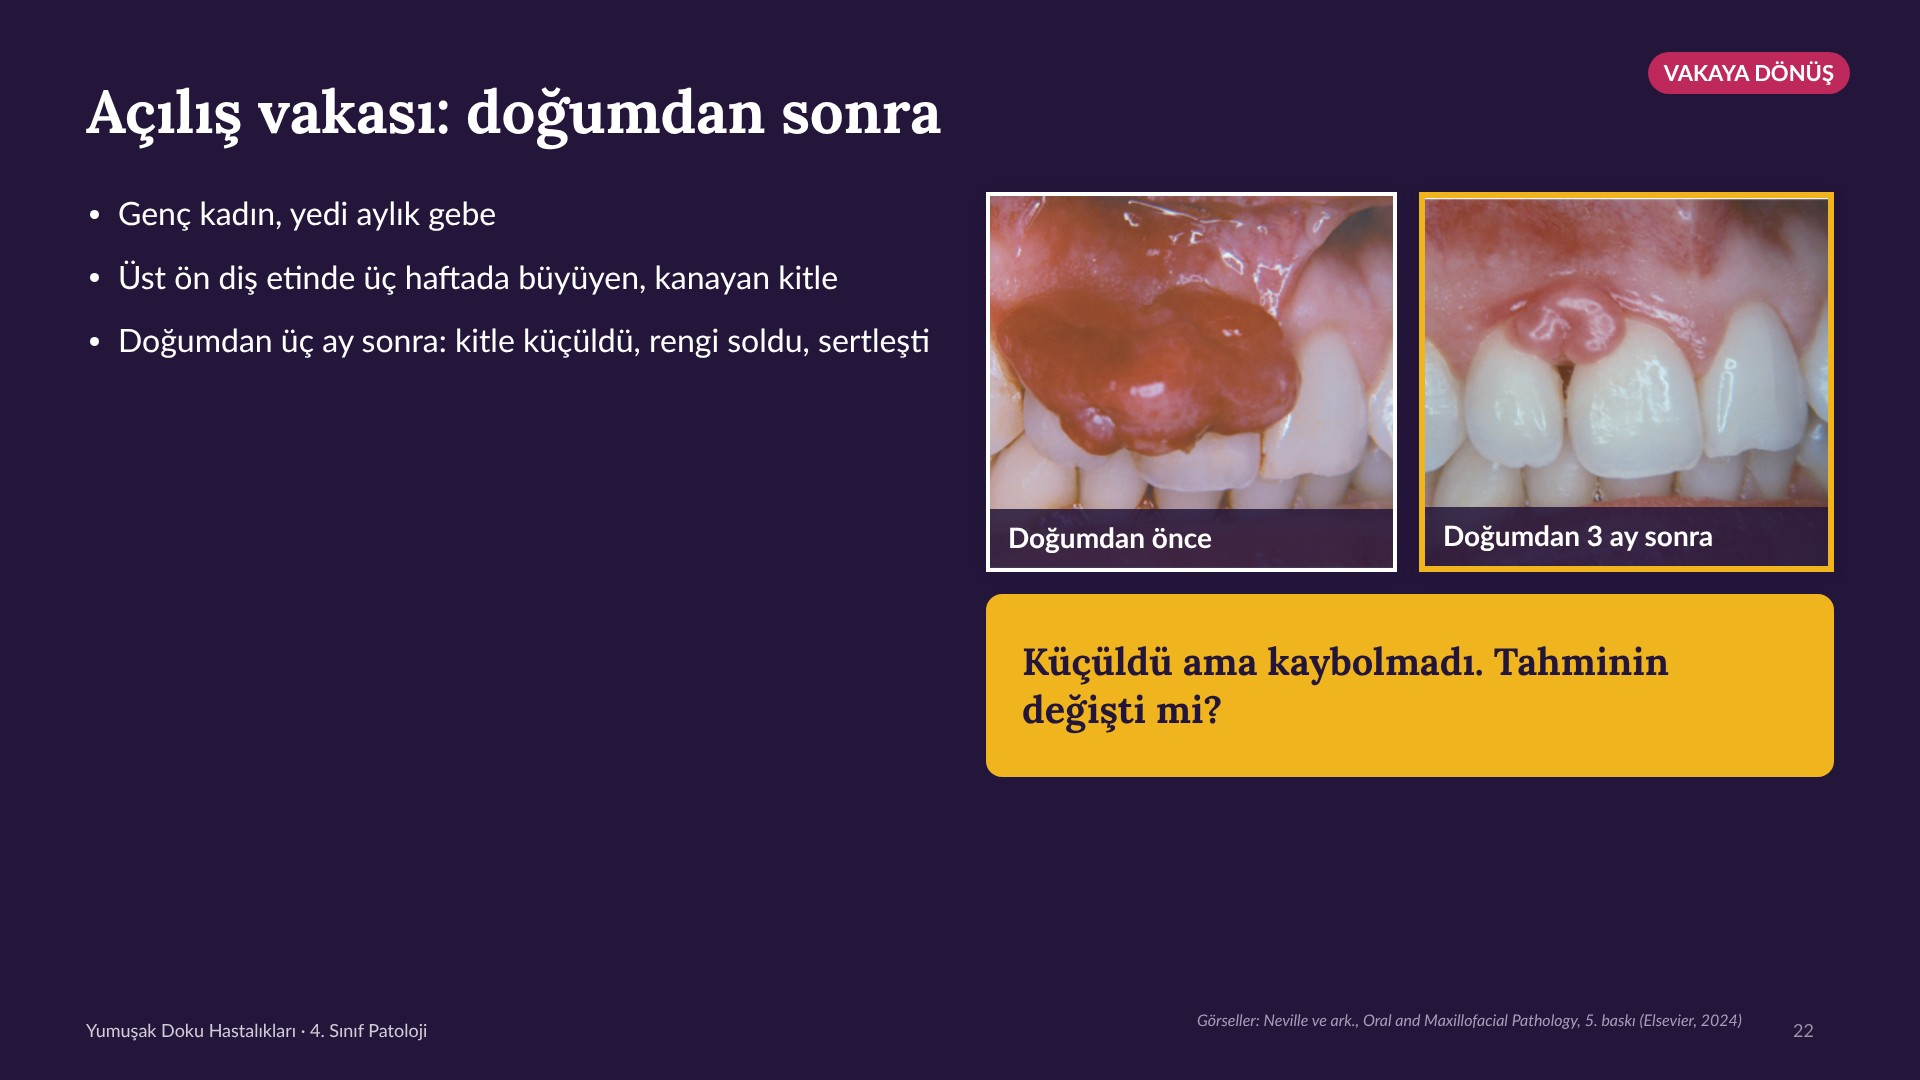
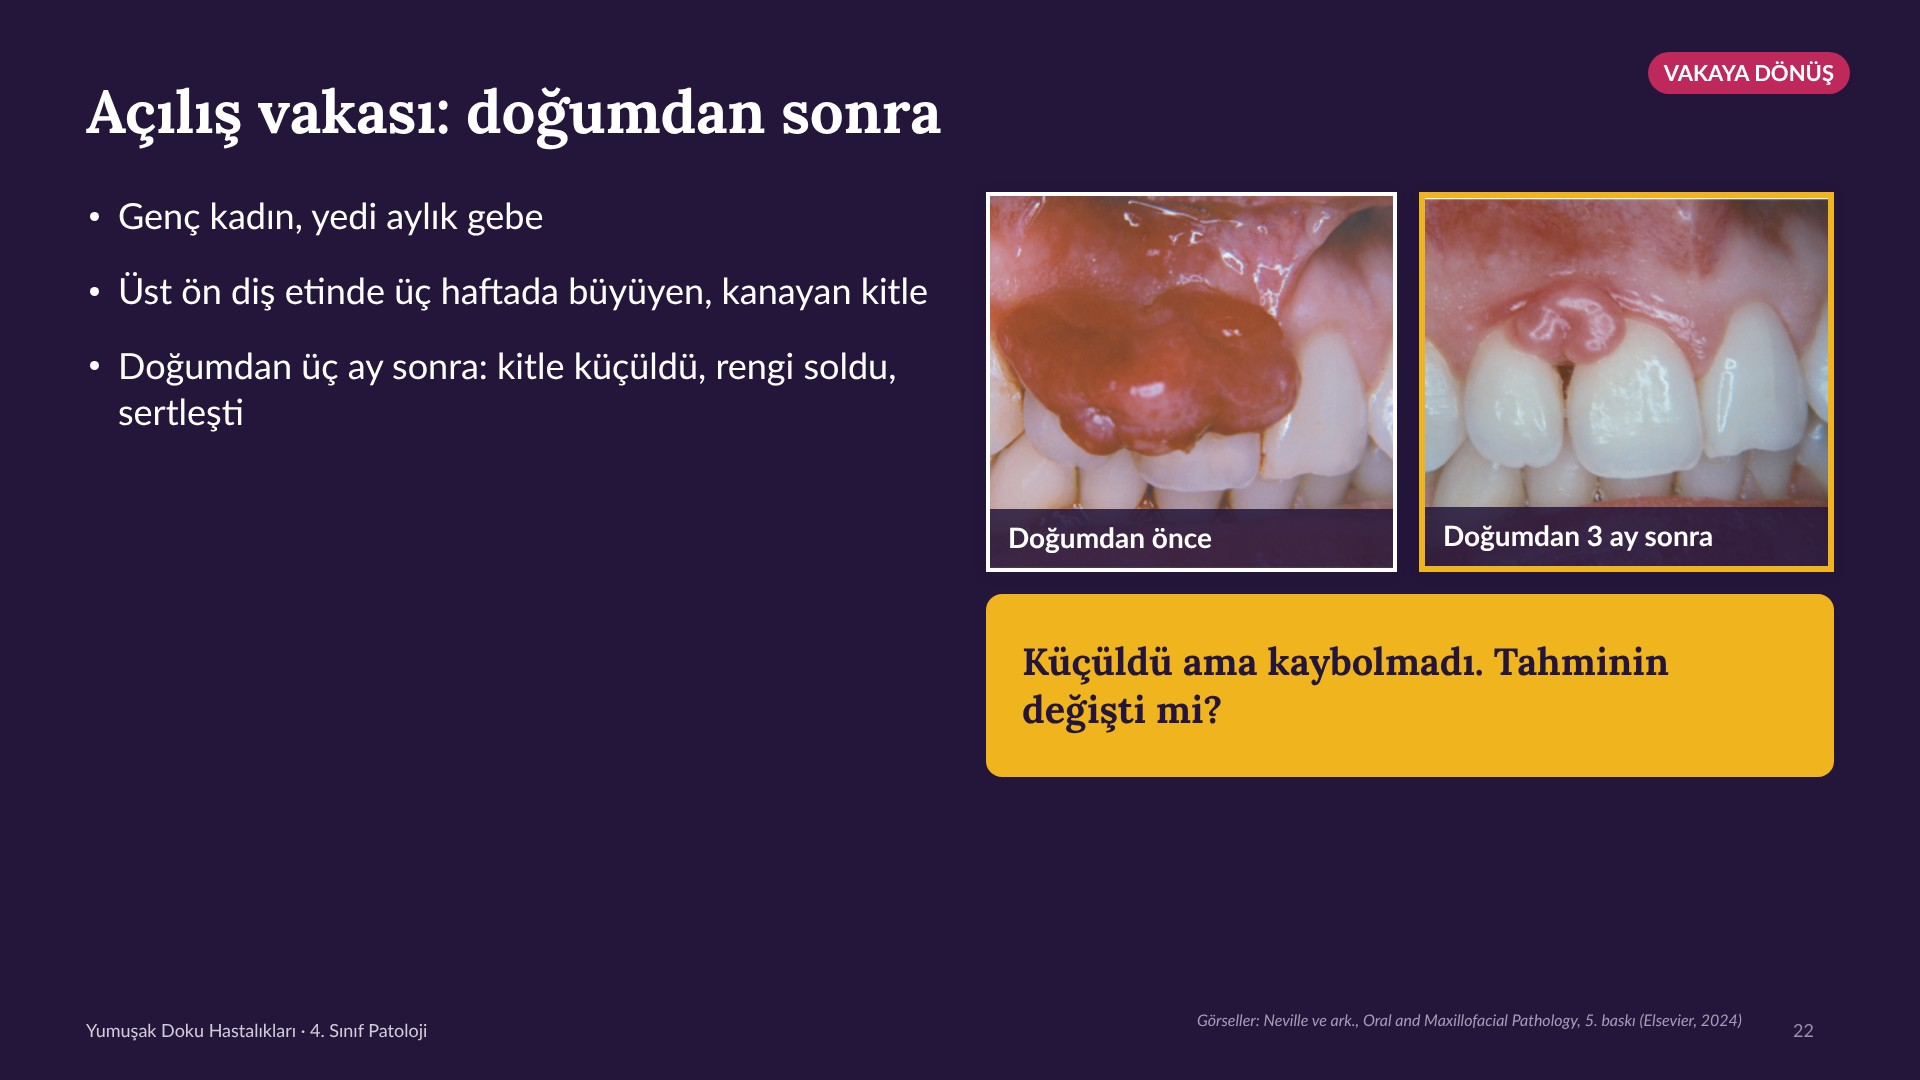
M3/M4: evde tekrar ödevi düzeltildi
Neville'in örnek sınav soruları bölüm sonunda değil, kitabın sonundaki
ekte (e16–e20); basılı kitapta olmayabilir. Ödev 'ilgili bölümü bir kez
okuyun' olarak değişti, DUS notları ve README buna göre düzeltildi.
Slayt önbellek sürümü 2'ye çıktı.

Claude-Session: https://claude.ai/code/session_01H7eJwj2gDzGqHFEuRxu6dK

Changed region(s): [[0.0625, 0.2444, 0.5, 0.3972], [0.0625, 0.1833, 0.2812, 0.2139]]

diff --git a/tools/slaytlar/yeni/m3.py b/tools/slaytlar/yeni/m3.py
@@ -14,7 +14,7 @@ l = lambda k, **kw: F("l", k, **kw)
 L = Lesson("M3", "Yumuşak Doku Hastalıkları", "Yumuşak Doku Hastalıkları", "17 Kasım 2026",
            frame="Önce adres: diş etinde mi? Değilse hangi doku?",
            strip=("Önce adres", ["1 Diş eti mi?", "2 Hangi doku?"]),
-           cta="24 Kasım'a kadar Neville Bölüm 12'nin sonundaki örnek soruları çözün. İlk üçü gelecek derste burada anarım.")
+           cta="24 Kasım'a kadar Neville Bölüm 12'yi (yumuşak doku tümörleri) bir kez okuyun. İlk üçü gelecek derste burada anarım.")
 
 IMG = os.path.join(CANLI, "img")
 
@@ -151,7 +151,7 @@ L.add(title="Protezin açtığı kitleler", dur=55, strip={2}, cred=NEV,
       notes="İki protez lezyonu. Epulis fissuratum uyumsuz bir protez kenarının açtığı kıvrımlar: protezin kenarı iki kıvrımın arasındaki yarığa oturur. Eksizyon yeterli değil; protezi yenilemezseniz geri gelir. İnflamatuvar papiller hiperplazi sert damakta, protezin altında, çakıl taşı gibi kırmızı papiller. Protezi gece gündüz takanların yaklaşık beşte birinde görülür; çoğunda kandida da vardır. Erken dönemde protezi geceleri çıkarmak ve antifungal yeter. Patolog için not: ikisinde de yüzey epiteli psödoepitelyomatöz hiperplazi yapabilir, karsinom sanılmamalı.")
 
 L.add(title="DUS Molası 1/2", dur=45, theme="dark", q=W3, body=qbody(Q[W3]),
-      notes="İlk DUS sorusu, Neville'in bölüm sonu sorularından. 30 saniye. (Sonuç.) Piyojenik granülom: ikisi de diş etinde kırmızı, ülserli kitle. Ayırımı mikroskop yapar.")
+      notes="İlk DUS sorusu, Neville'in kitap sonundaki örnek sınav sorularından. 30 saniye. (Sonuç.) Piyojenik granülom: ikisi de diş etinde kırmızı, ülserli kitle. Ayırımı mikroskop yapar.")
 
 L.add(title="DUS Molası 2/2", dur=40, theme="dark", q=W4, body=qbody(Q[W4]),
       notes="İkinci soru bir tanım. (Sonuç.) Epulis bir yer adı: diş eti ya da alveol kreti. Epulis fissuratum, konjenital epulis, epulis granulomatosa; hepsinin ortak noktası adresleri. Bu ara diş eti bloğunu kapatıyor; sırada sinir.")
@@ -289,7 +289,7 @@ L.add(title="Kaynaklar ve evde tekrar", dur=15,
                    "WHO Classification of Tumours Editorial Board. *Head and Neck Tumours.* 5. baskı. IARC; 2022. Bölüm 6 (ağız boşluğu) ve 10 (yumuşak doku).",
                    "Laskaris G. *Color Atlas of Oral Diseases.* 4. baskı. Thieme; 2017. (Klinik fotoğraflar)"], size=30, gap=18),
                box("pink", None, html_="<div class='big' style='font-size:36px'>%s</div>" % md(L.cta), style="padding:30px 34px;margin-top:30px")),
-      notes="Kaynaklar burada. 24 Kasım'a kadar Neville'in bölüm sonundaki örnek soruları bir kez çözün; ilk üçü gelecek derste burada anarım. On dakika ara; sonra tükürük bezleri. Telefonlarınızı kapatmayın: aynı adla 'Sıradaki derse geç' düğmesi çıkacak.")
+      notes="Kaynaklar burada. 24 Kasım'a kadar Neville'in 12. bölümünü bir kez okuyun; ilk üçü gelecek derste burada anarım. On dakika ara; sonra tükürük bezleri. Telefonlarınızı kapatmayın: aynı adla 'Sıradaki derse geç' düğmesi çıkacak.")
 
 if __name__ == "__main__":
     only = set(int(x) for x in sys.argv[1:]) or None

diff --git a/tools/slaytlar/yeni/m4.py b/tools/slaytlar/yeni/m4.py
@@ -14,7 +14,7 @@ l = lambda k, **kw: F("l", k, **kw)
 L = Lesson("M4", "Tükürük Bezi Hastalıkları ve Tümörleri", "Tükürük Bezi Hastalıkları", "17 Kasım 2026",
            frame="Bez küçüldükçe tehlike büyür; ağızda adres tanıyı daraltır.",
            strip=("Adres", ["1 Hangi bez?", "2 Ağızda nerede?"]),
-           cta="24 Kasım'a kadar Neville Bölüm 11'in sonundaki örnek soruları çözün. İlk üçü gelecek derste burada anarım.")
+           cta="24 Kasım'a kadar Neville Bölüm 11'i (tükürük bezi patolojisi) bir kez okuyun. İlk üçü gelecek derste burada anarım.")
 
 IMG = os.path.join(CANLI, "img")
 
@@ -160,7 +160,7 @@ L.add(title="Nekrotizan sialometaplazi: karsinom değil", dur=60, dus=True, cred
       notes="Bu dersin patoloğun notu burada. Nekrotizan sialometaplazi küçük bezlerin enfarktı: kan akımı kesilir, bez ölür. Çoğu arka damakta; önce şişlik, iki üç hafta içinde krater gibi bir ülser. Hasta 'damağımın bir parçası düştü' diye gelir. Neden olanlar: travma, anestezi iğnesi, protez, yakın bir ameliyat. Klinikte karsinoma benzer; mikroskopta daha da çok: ölen bezlerin kanalları skuamöz metaplazi yapar ve üstteki epitel aşağı dallanır. Bu tablo skuamöz hücreli karsinom ya da mukoepidermoid karsinom sanılabilir. Benim size ricam: istek formunu boş göndermeyin. 'İki hafta önce bu bölgede anestezi yapıldı', 'yeni protez', 'birden başladı' cümleleri patoloğun karşısındaki en değerli bilgidir. Lezyon kendiliğinden iyileşir; iyileşmezse yeniden biyopsi.")
 
 L.add(title="DUS Molası 1/2", dur=45, theme="dark", q=W3, body=qbody(Q[W3]),
-      notes="Neville'in bölüm sonu sorularından. 30 saniye. (Sonuç.) Üst dudak. Bu cümleyi birazdan tümörlerde kullanacağız.")
+      notes="Neville'in kitap sonundaki örnek sınav sorularından. 30 saniye. (Sonuç.) Üst dudak. Bu cümleyi birazdan tümörlerde kullanacağız.")
 
 L.add(title="DUS Molası 2/2", dur=40, theme="dark", q=W4, body=qbody(Q[W4]),
       notes="(Sonuç.) Lenfoma; çoğu MALT. Bu ara tümör dışı bloğu kapatıyor; sırada tümörler.")
@@ -300,7 +300,7 @@ L.add(title="Kaynaklar ve evde tekrar", dur=10,
                    "Shiboski CH ve ark. 2016 ACR/EULAR primer Sjögren sınıflama ölçütleri. *Arthritis Rheumatol.* 2017;69:35–45.",
                    "Laskaris G. *Color Atlas of Oral Diseases.* 4. baskı. Thieme; 2017. (Klinik fotoğraflar)"], size=30, gap=18),
                box("pink", None, html_="<div class='big' style='font-size:36px'>%s</div>" % md(L.cta), style="padding:30px 34px;margin-top:30px")),
-      notes="Kaynaklar burada. 24 Kasım'a kadar Neville'in bölüm sonundaki örnek soruları bir kez çözün; ilk üçü gelecek derste burada anarım.")
+      notes="Kaynaklar burada. 24 Kasım'a kadar Neville'in 11. bölümünü bir kez okuyun; ilk üçü gelecek derste burada anarım.")
 
 if __name__ == "__main__":
     only = set(int(x) for x in sys.argv[1:]) or None

diff --git a/tools/slaytlar/yeni/deck.py b/tools/slaytlar/yeni/deck.py
@@ -183,7 +183,7 @@ def steps(items, size=30):
 
 # ---------------- slide shell ----------------
 class Lesson:
-    def __init__(self, lid, title, short, date, frame=None, strip=None, cta=None, ver="1"):
+    def __init__(self, lid, title, short, date, frame=None, strip=None, cta=None, ver="2"):
         self.lid, self.title, self.short, self.date = lid, title, short, date
         self.frame, self.strip_cfg, self.cta, self.ver = frame, strip, cta, ver
         self.slides = []      # dicts

diff --git a/README.md b/README.md
@@ -92,7 +92,7 @@ Ders JSON'undaki özel slayt alanları: `lobby` (katılım ekranı), `qopen` (so
 
 Slaytlar `tools/slaytlar/build.py` + `build2.py` ile orijinal görsellerden yeniden üretilir (PIL; Lora ve Lato fontları; orijinal slaytlar ilk sürümden: `git show 2d6da82:canli/slaytlar/M1/01.jpg`). M1'de diş hekimi için yedi pratik slayt var (pemfigus hastası koltukta, pemfigoid tedavisi, SJS/TEN–karbamazepin, herpes tedavisi, herpes bulaşı, Behçet, mukozit önleme; `tools/slaytlar/build2.py` içinde `M1_PRACTICAL`). M2'de on ek slayt: beyaz/kırmızı mekanizmaları, kıllı lökoplaki–HIV sorusu, nikotinik stomatit ve ters sigara, dumansız tütün keratozu ve Maraş otu, Freud'un damağı ve alan kanserizasyonu (fotoğraf `canli/img/freud_protez.jpg`), Peutz-Jeghers, peteşi, nötropeni ve metamizol, yazarken üç uyarı (`M2_PRACTICAL`). Fotoğraf bekleyen çerçeveler: `canli/img/zoster_trigeminal.jpg` (trigeminal zona), `canli/img/herpetik_dolama.jpg` (herpetik dolama), `canli/img/peutz_jeghers.jpg` (Peutz-Jeghers), `canli/img/petesi_damak.jpg` (damakta peteşi). M2'deki "Mikroskopta displazi" slaytı iki fotoğraf bekler: `canli/img/displazi_normal.jpg` ve `canli/img/displazi_agir.jpg` (H&E kesit). Dosyalar konup slaytlar yeniden üretilince çerçevelere yerleşir; şimdilik çerçevelerde yer tutucu yazı var.
 
-**M3 ve M4 (17 Kasım 2026, blok ders):** Yumuşak doku hastalıkları ve tükürük bezi hastalıkları, her biri 25 dakika. Akış mukozal derslerle aynı: açılış vakası, çerçeve, bloklar, DUS molası (Neville 5. baskı bölüm sonu sorularından), vakaya dönüş, çıkış bileti; her derste bir "Patoloğun notu" kutusu (M3: granüler hücreli tümörde yüzeysel biyopsi tuzağı, M4: nekrotizan sialometaplazide istek formu). Çerçeveler: M3 **Önce adres** (diş etinde mi, değilse hangi doku), M4 **Adres** (hangi bez, ağızda nerede; bez küçüldükçe tehlike büyür). M4 açılışta M3'ün çıkış biletini gösterir. Rakamlar ve adlar Neville 5. baskı (2024) ve WHO 2022'den; klinik fotoğraflar Neville 5 ve Laskaris 4. baskıdan.
+**M3 ve M4 (17 Kasım 2026, blok ders):** Yumuşak doku hastalıkları ve tükürük bezi hastalıkları, her biri 25 dakika. Akış mukozal derslerle aynı: açılış vakası, çerçeve, bloklar, DUS molası (Neville 5. baskının kitap sonundaki örnek sınav sorularından), vakaya dönüş, çıkış bileti; her derste bir "Patoloğun notu" kutusu (M3: granüler hücreli tümörde yüzeysel biyopsi tuzağı, M4: nekrotizan sialometaplazide istek formu). Çerçeveler: M3 **Önce adres** (diş etinde mi, değilse hangi doku), M4 **Adres** (hangi bez, ağızda nerede; bez küçüldükçe tehlike büyür). M4 açılışta M3'ün çıkış biletini gösterir. Rakamlar ve adlar Neville 5. baskı (2024) ve WHO 2022'den; klinik fotoğraflar Neville 5 ve Laskaris 4. baskıdan.
 
 Bu iki dersin slaytları HTML olarak kurulup tarayıcıda JPG'ye çevrilir: `tools/slaytlar/yeni/` (`deck.py` bileşenler ve ders JSON'u, `render.mjs` Playwright ile çizim ve taşma denetimi, `foto.py` kitap PDF'lerinden fotoğraf kesme, `m3.py`, `m4.py` ders içerikleri). Yeniden üretmek için kitap PDF'leri (`neville5.pdf`, `laskaris.pdf`) bir klasörde olmalı ve Lora/Lato fontları `tools/slaytlar/fonts/` altında: `KITAP=/kitap/klasoru python3 tools/slaytlar/yeni/m3.py` (yalnız bazı slaytlar için sonuna numara: `m3.py 5 6`). Kitaplar ve fontlar repoda değildir.
 
